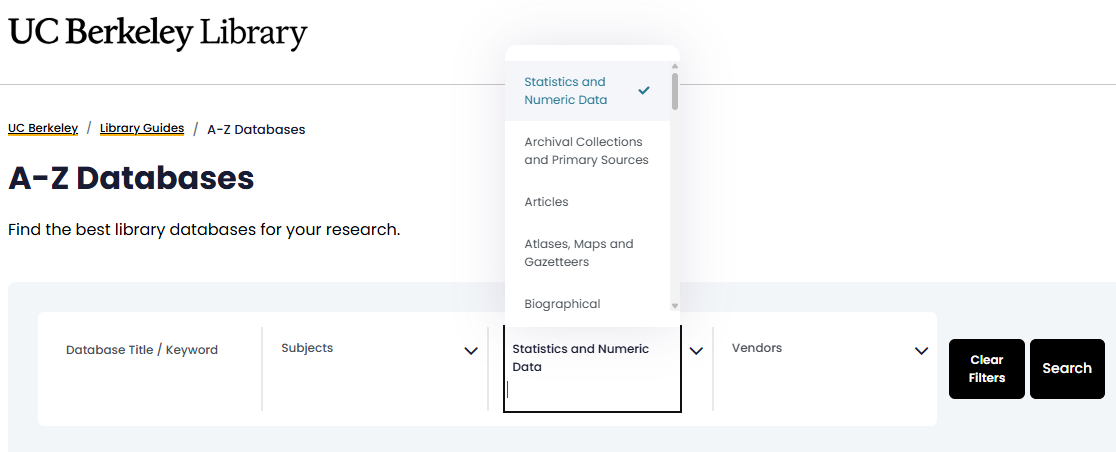
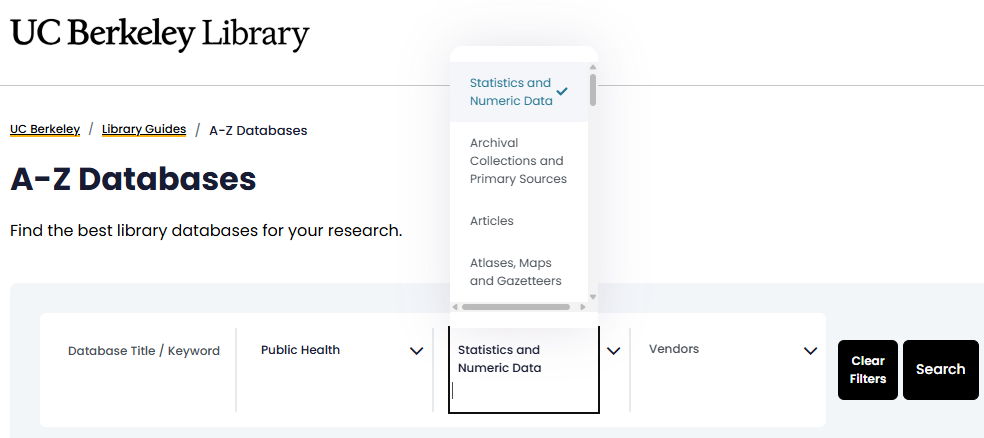
Update databases.md
Uploaded image with correction

diff --git a/STEM-101/databases.md b/STEM-101/databases.md
@@ -117,7 +117,7 @@ Boolean operators are not supported in keyword searching. Searching on “biomed
 
 ```{image} ./images/A-to-Z-2
 :class: border border-secondary 
-:alt: A-Z Databases Interface with "Statistics and Numeric Data" selected from the "sources" dropdown list
+:alt: A-Z Databases Interface with "Public Health" selected from the "Subjects" dropdown list and "Statistics and Numeric Data" selected from the "types" dropdown list
 :class: framed
 :width: 800px
 :align: center
@@ -127,7 +127,7 @@ Boolean operators are not supported in keyword searching. Searching on “biomed
 
 ```{image} ./images/A-to-Z-3
 :class: border border-secondary 
-:alt: A-Z Databases Interface with "Biological Sciences" selected from the "Subjects" dropdown list and "Images" and "Videos" selected from the "sources" dropdown list
+:alt: A-Z Databases Interface with "Biological Sciences" selected from the "Subjects" dropdown list and "Images" and "Videos" selected from the "types" dropdown list
 :class: framed
 :width: 800px
 :align: center
